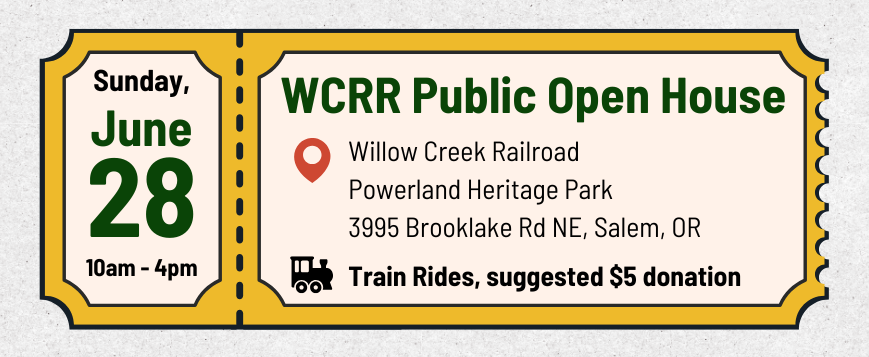
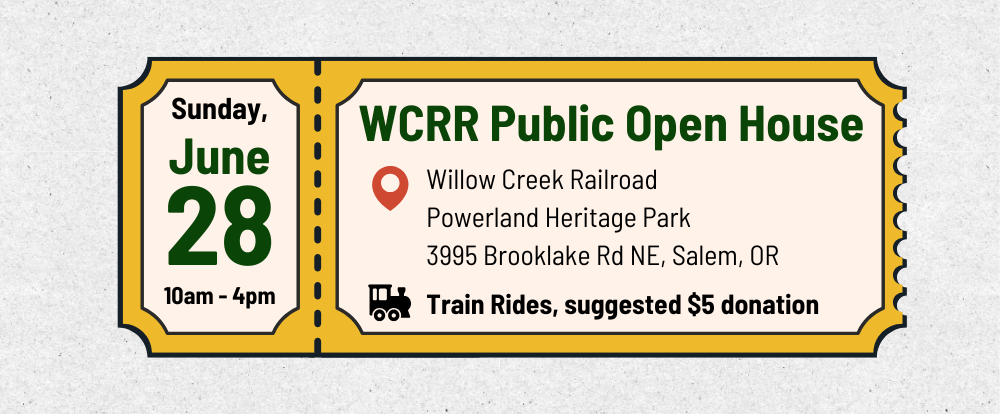
Updated 2 files via CloudCannon.

diff --git a/memorial-meet.html b/memorial-meet.html
@@ -66,7 +66,7 @@ gallery-two:
  <section class="padded-lg bg-dark-tan">
     <div class="grid-center-middle">
         <div class="col-1 mobile-hide"></div>
-        <div class="col-10_md-12"> <img src="/images/open-house.png" /> </div>
+        <div class="col-10_md-12"> <img src="/images/train-ticket-2026.png" /> </div>
         <div class="col-1 mobile-hide"></div>
     </div>
     <div class="padded-x-lg">
